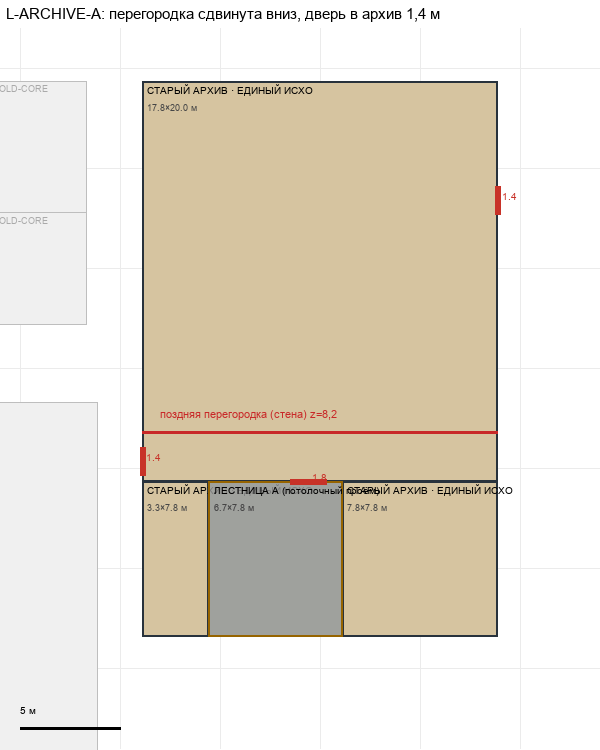
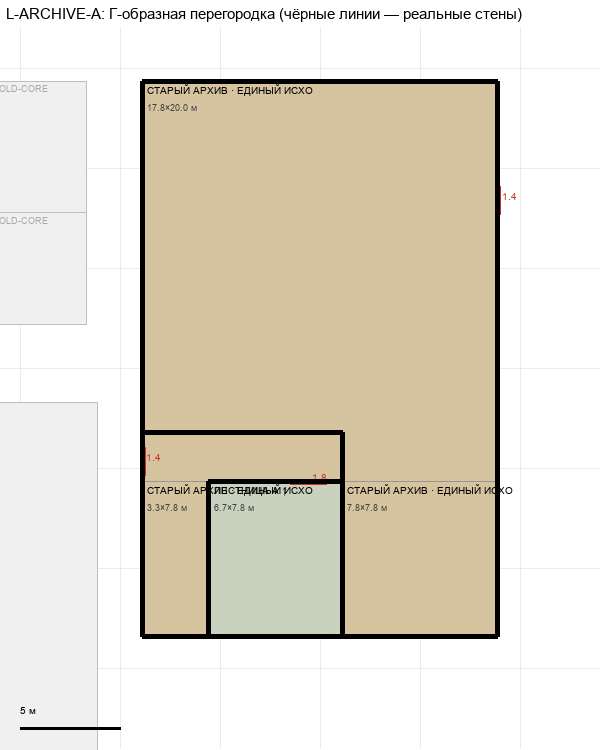
T53 L-ARCHIVE-A: L-shaped partition around the stair lobby (#95)

Changed region(s): [[0.21, 0.092, 0.84, 0.8587], [0.18, 0.0, 0.87, 0.0307]]

diff --git a/tools/complex_v3_regeneration/review_views.py b/tools/complex_v3_regeneration/review_views.py
@@ -104,7 +104,7 @@ def draw_sector(R: dict, sid: str, edit: Edit | None, title: str, ppm: float = 2
                 d.text(T(a + 0.2, b + 0.1), other, fill=(170, 170, 170, 255), font=font(9))
     for slug, rm in rooms.items():
         a, b, c, e = rm["world_m"]
-        d.rectangle([T(a, b), T(a + c, b + e)], fill=PALETTE.get(rm["class"], (200, 210, 220)) + (255,), outline=(40, 50, 60, 255), width=2)
+        d.rectangle([T(a, b), T(a + c, b + e)], fill=PALETTE.get(rm["class"], (200, 210, 220)) + (255,), outline=(150, 150, 150, 255) if edit is None else (40, 50, 60, 255), width=1 if edit is None else 2)
         lab = (rm["label"].split(" / ")[0] or slug)[:26]
         d.text(T(a + 0.25, b + 0.15), lab, fill=(0, 0, 0, 255), font=font(10))
         d.text(T(a + 0.25, b + 0.15 + 0.9), f"{c:.1f}×{e:.1f} м", fill=(70, 70, 70, 255), font=font(9))
@@ -131,6 +131,14 @@ def draw_sector(R: dict, sid: str, edit: Edit | None, title: str, ppm: float = 2
         d.text(T((a + c) / 2 + 0.2, (b + e) / 2 - 0.5), txt, fill=col + (255,), font=font(10))
     for n in notes:
         d.text(T(n[0], n[1]), n[2], fill=tuple(n[3]) + (255,), font=font(11))
+    if edit is None:
+        import re
+        folder = {"LV-U": "upper", "LV-L": "lower", "LV-T": "technical"}[rep["level"]]
+        svg = ROOT / "docs/design/complex_v4/plans/generation" / folder / (sid.lower().replace("-", "_") + ".svg")
+        if svg.exists():
+            for m in re.finditer(r'<line id="[^"]*" class="wall"[^>]*? x1="([-\d.]+)" y1="([-\d.]+)" x2="([-\d.]+)" y2="([-\d.]+)"', svg.read_text(encoding="utf-8")):
+                x1, y1, x2, y2 = map(float, m.groups())
+                d.line([T(x1, y1), T(x2, y2)], fill=(0, 0, 0, 255), width=5)
     # scale bar
     d.line([T(x0 + 1, z1 - 1), T(x0 + 6, z1 - 1)], fill=(0, 0, 0, 255), width=3)
     d.text(T(x0 + 1, z1 - 2.2), "5 м", fill=(0, 0, 0, 255), font=font(10))

diff --git a/tools/complex_v3_regeneration/build_canonical_from_approved.py b/tools/complex_v3_regeneration/build_canonical_from_approved.py
@@ -617,6 +617,12 @@ def build_sector(sector_id: str, entry: dict[str, Any], reg: dict[str, Any]) -> 
                 if l.cls == am.get("class", "partition"):
                     l.y1 += am["dz_m"] / tf.ky
                     l.y2 += am["dz_m"] / tf.ky
+    for am in entry.get("amendments", []):
+        if am["op"] == "wall_replace":
+            wall_lines = [l for l in wall_lines if l.cls != am.get("class", "partition")]
+            for k, seg in enumerate(am["segments_m"], 1):
+                wall_lines.append(Line((seg[0] - tf.sx) / tf.kx + tf.ox, (seg[1] - tf.sy) / tf.ky + tf.oy,
+                                       (seg[2] - tf.sx) / tf.kx + tf.ox, (seg[3] - tf.sy) / tf.ky + tf.oy, "wall", "wall", f"amendment-{am['id']}-{k}"))
     for l in wall_lines:
         n_wall += 1
         q = (tf.px(l.x1), tf.py(l.y1), tf.px(l.x2), tf.py(l.y2))

diff --git a/docs/design/complex_v4/review/decisions.md b/docs/design/complex_v4/review/decisions.md
@@ -12,4 +12,4 @@
 | D-07 | L-ARCHIVE-A | Лестница под верхней; архив продлён на 2,2 м к югу; архив одним помещением, проход не помещение, лишние проёмы убраны | D-07a/b, `exclude` |
 | D-08 | L-ARCHIVE-A | Дверь из хола старого ядра — «historic» 1,4×2,3; вход из коридора — широкий проход 4 м | D-08a/b |
 | D-09 | все | Каталог дверей согласован: wing 1,8×2,8 / служебная 1,0×2,1 / historic 1,4×2,3 / грузовые ворота 4,5×4,5 / широкий проход 3–6 м | применяется по секторам |
-| D-10 | L-ARCHIVE-A | Дверь в архив из коридора обычная (historic 1,4×2,3); перегородка сдвинута вниз до z=8,2 м — под лестницу отведена минимальная часть | D-08b, D-10 |
+| D-10 | L-ARCHIVE-A | Дверь в архив обычная (historic 1,4×2,3); перегородка Г-образная вокруг прохода к лестнице (z=8,2 до x=-48,9, затем вниз до угла лестницы) | D-08b, D-10 |
